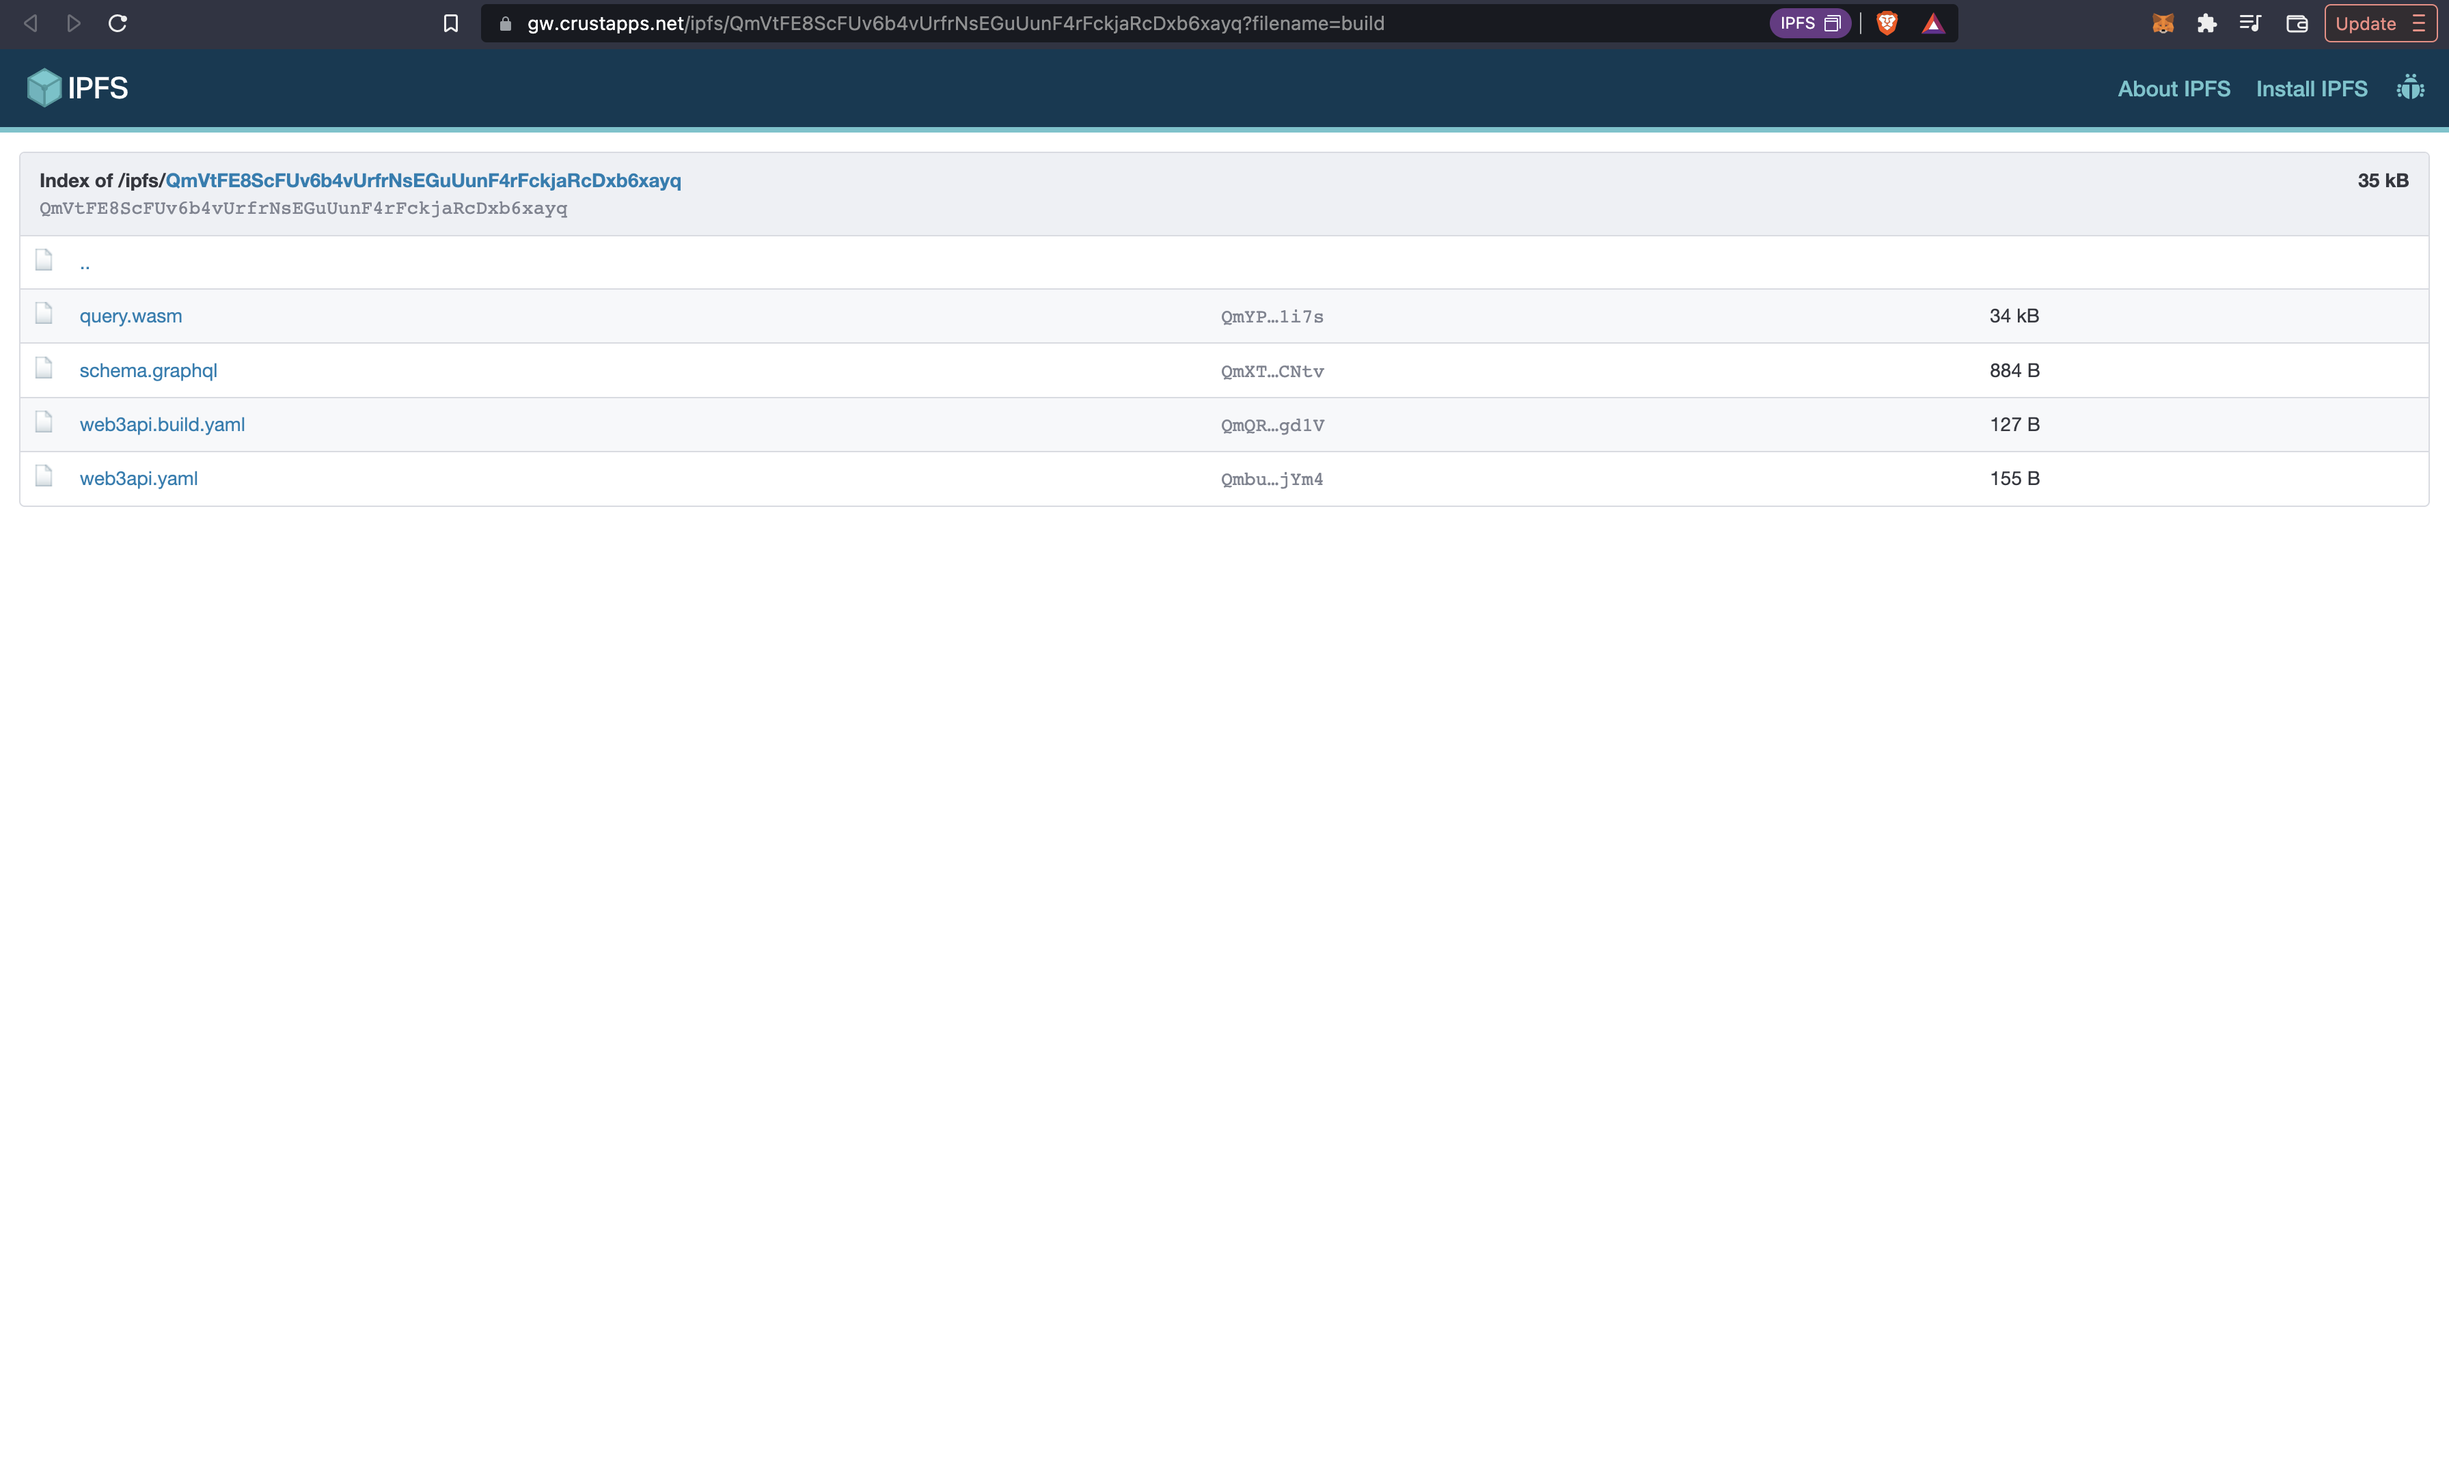
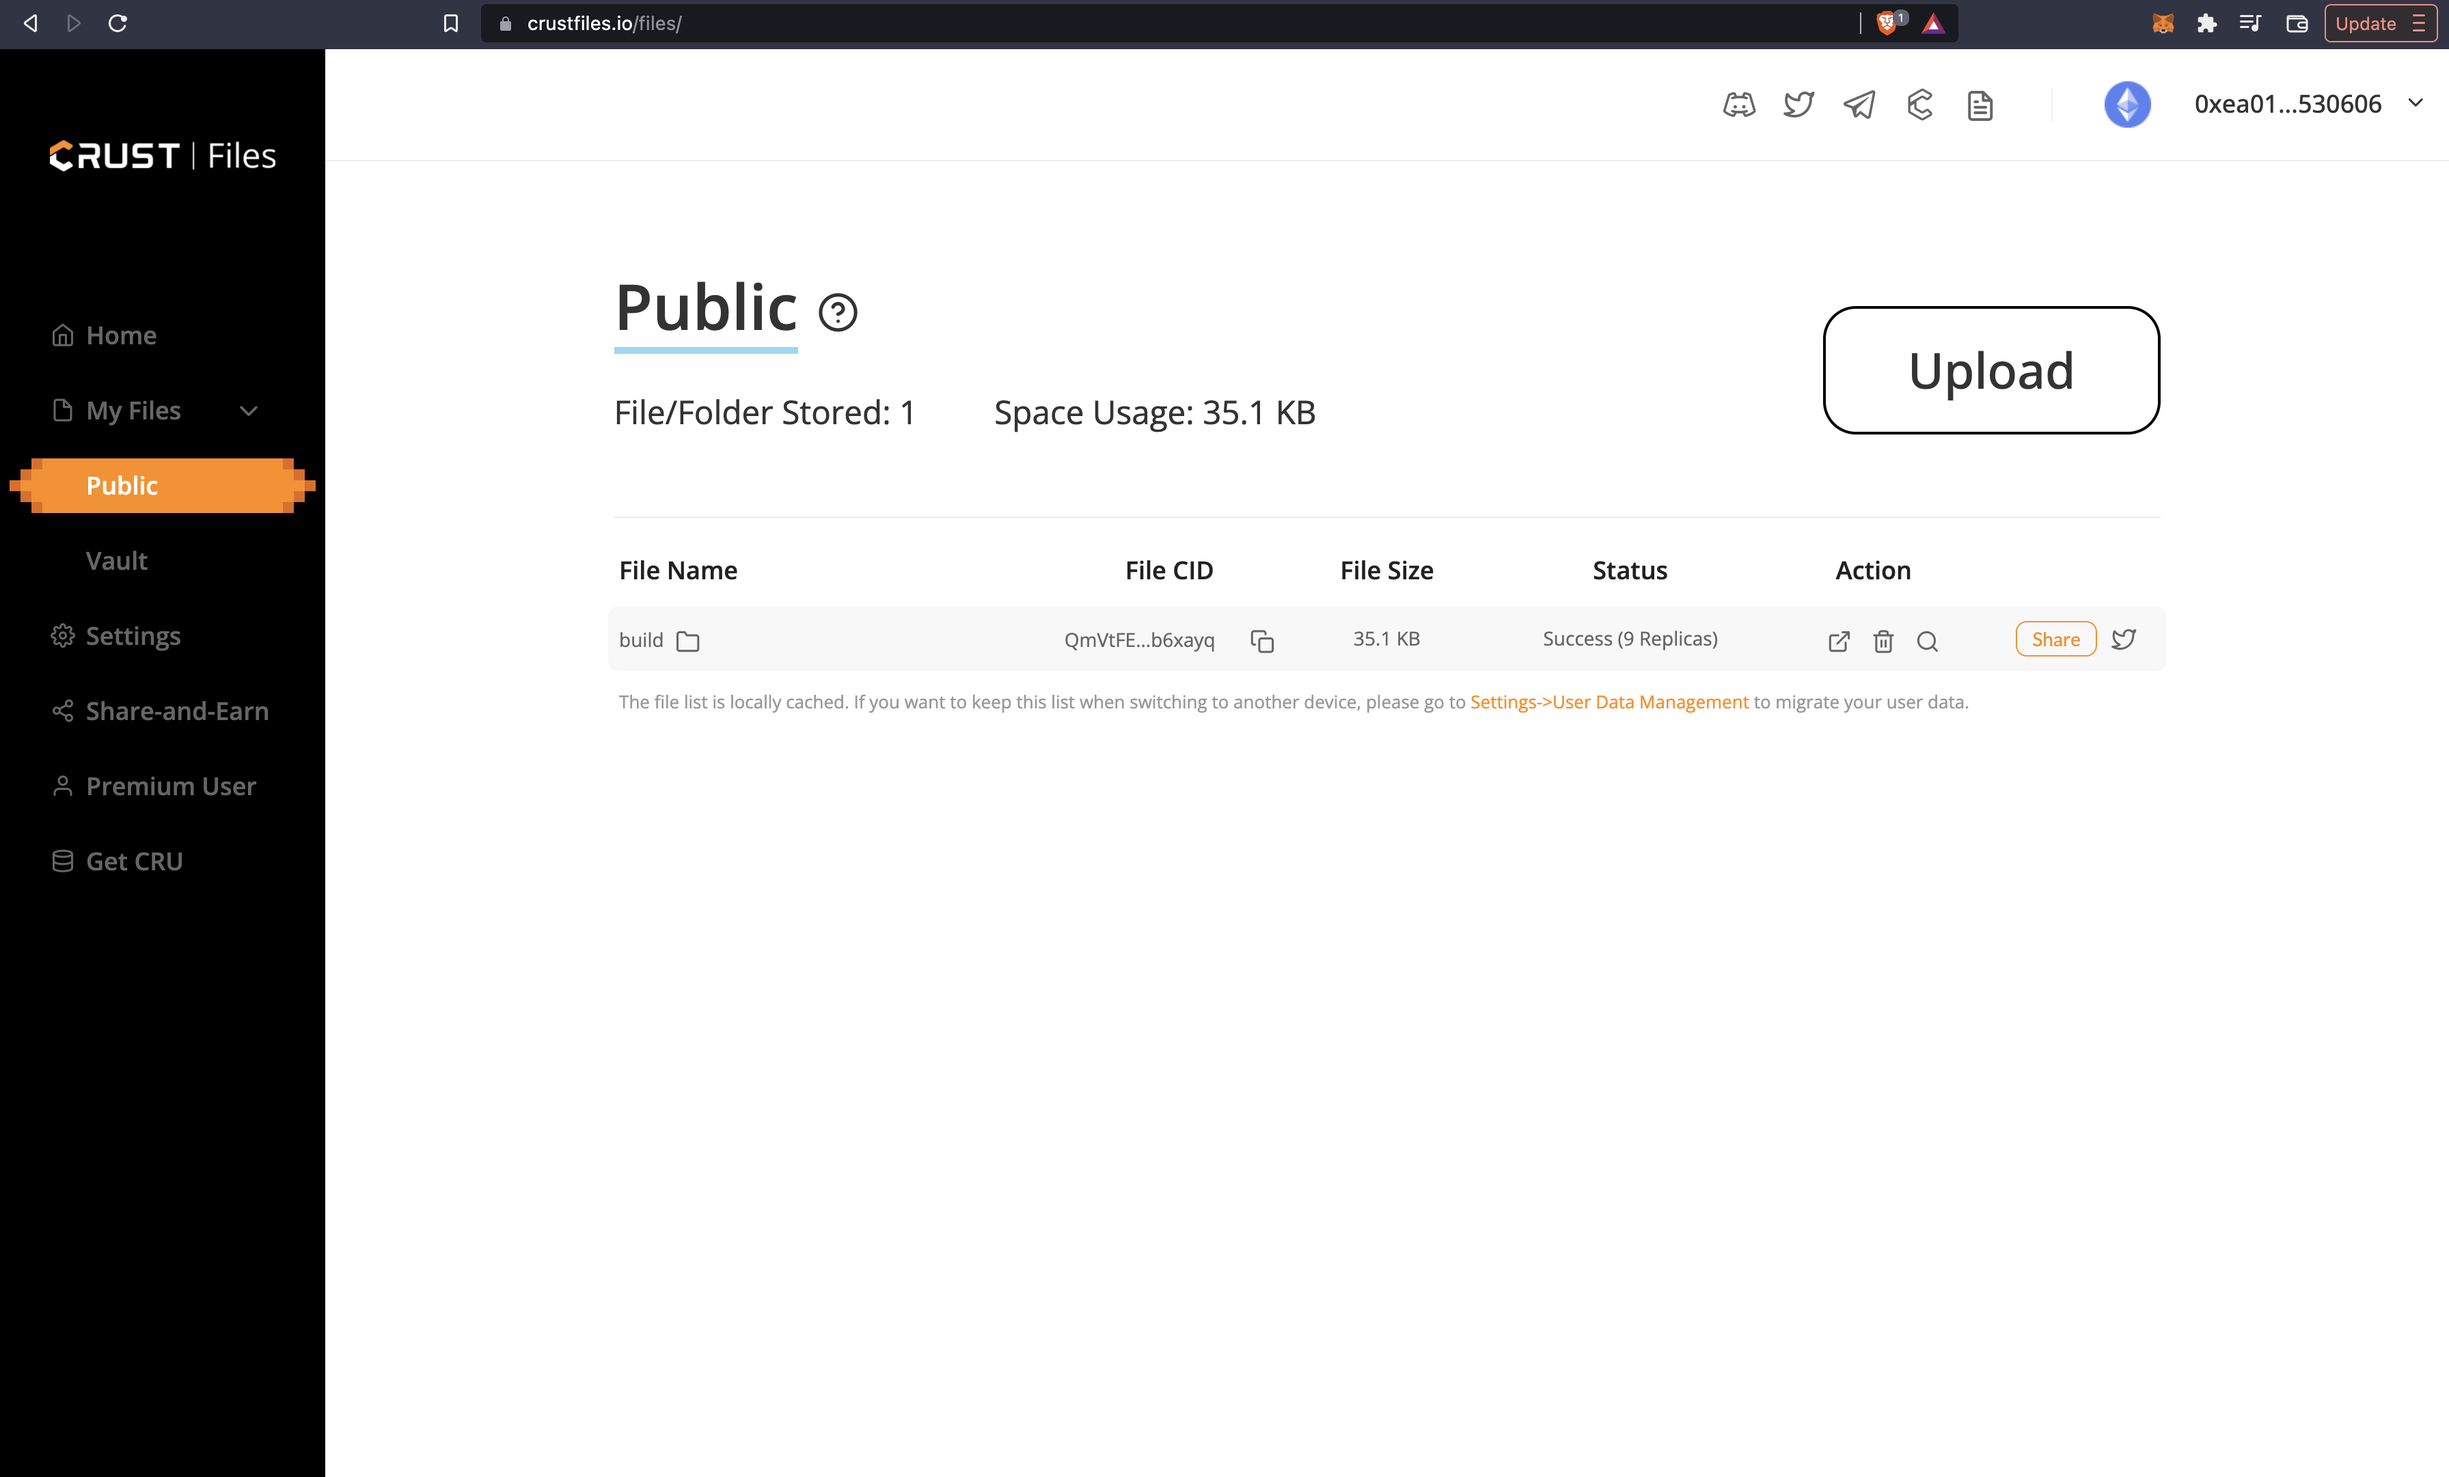
crust files guide completed #128

diff --git a/docs/guides/deployment/deploy-crust.md b/docs/guides/deployment/deploy-crust.md
@@ -27,8 +27,8 @@ so that other dapps could integrate it into their dapps!
 ### What you need to get started:
 * We'll be using the [Polywrap Demos](https://github.com/polywrap/demos) repo for this guide. 
 * 💚 [Node. js](https://nodejs.org/en/) 
-* [Metamask](https://metamask.io)
-*   [Crust Network](https://crustfiles.io/home/)
+* 👛 [Metamask](https://metamask.io)
+*  🥐 [Crust Network](https://crustfiles.io/home/)
 * 🐳 [Docker](https://www.docker.com/)
 * 🧶[Yarn](https://classic.yarnpkg.com/en/)
     * Versions:  `node >=10.0.0` or `yarn >=1.0.0`
@@ -60,22 +60,37 @@ yarn build
 
 ### Step 4. Upload the build folder to Crust Network
 
-Make sure you signin using a wallet `Metamask`.
+* Make sure you signin using a wallet `Metamask`.
 
 ![Crust Files Step 1](../../../static/img/guides/crust-step-1.png)
 
 
-Click `Public`
+* Click `Public`
 
 
 ![Crust Files Step 2](../../../static/img/guides/crust-step-2.png)
 
 
-Go to `Crust Files` 
+* Click `Upload` 
 
-Click Upload 
+![Crust Files Step 3](../../../static/img/guides/crust-step-3.png)
 
+* Upload the build folder then Click Upload 
 
+![Crust Files Step 4](../../../static/img/guides/crust-step-4.png)
+
+* Click `Sign and Upload` 
+
+![Crust Files Step 5](../../../static/img/guides/crust-step-5.png)
+
+* Your wallet will ask for a signature request 
+* Click `Sign`
+
+![Crust Files Step 6](../../../static/img/guides/crust-step-6.png)
+
+* The page should look like this: 
+
+![Crust Files Step 7](../../../static/img/guides/crust-step-7.png)
 
 
 
@@ -83,7 +98,10 @@ Click Upload
 You will get an IPFS hash!
 
 This will lead you to [IPFS link](https://gw.crustapps.net/ipfs/QmVtFE8ScFUv6b4vUrfrNsEGuUunF4rFckjaRcDxb6xayq?filename=build): 
+
 https://gw.crustapps.net/ipfs/QmVtFE8ScFUv6b4vUrfrNsEGuUunF4rFckjaRcDxb6xayq?filename=build
+
+![Crust Files Step 8](../../../static/img/guides/crust-step-8.png)
 
 
  🎉 Congratulations 🎉 on deploying using the Crust Files!  
